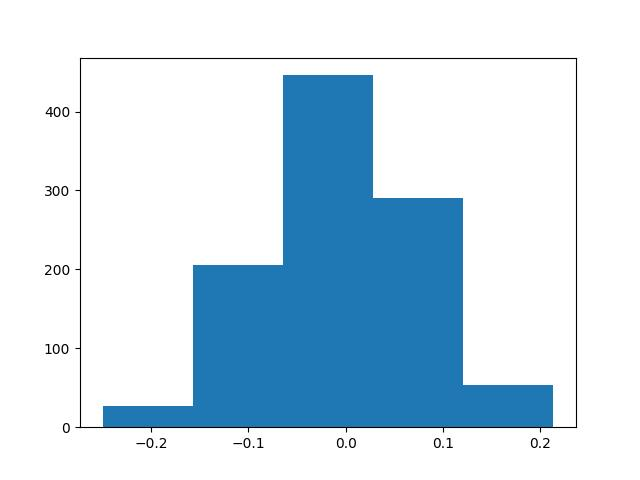
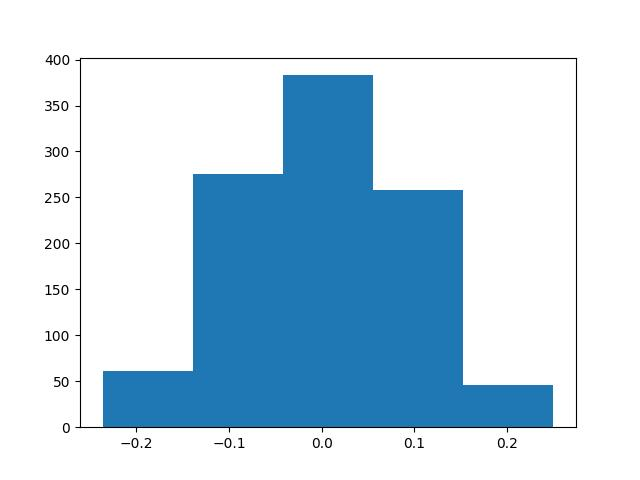
sampling changes

diff --git a/app.py b/app.py
@@ -104,7 +104,7 @@ adapter = MotionAdapter.from_pretrained("wangfuyun/AnimateLCM")
 pipe = AnimateDiffPipeline.from_pretrained("emilianJR/epiCRealism", motion_adapter=adapter, image_encoder=image_encoder, torch_dtype=dtype)#, vae=vae)
 pipe.scheduler = LCMScheduler.from_config(pipe.scheduler.config, beta_schedule="linear")
 pipe.load_lora_weights("wangfuyun/AnimateLCM", weight_name="AnimateLCM_sd15_t2v_lora.safetensors", adapter_name="lcm-lora",)
-pipe.set_adapters(["lcm-lora"], [.8])
+pipe.set_adapters(["lcm-lora"], [1])
 pipe.fuse_lora()
 
 #pipe = AnimateDiffPipeline.from_pretrained('emilianJR/epiCRealism', torch_dtype=dtype, image_encoder=image_encoder)
@@ -116,7 +116,7 @@ pipe.fuse_lora()
 
 
 pipe.load_ip_adapter("h94/IP-Adapter", subfolder="models", weight_name="ip-adapter_sd15.bin", map_location='cpu')
-pipe.set_ip_adapter_scale(1.)
+pipe.set_ip_adapter_scale(.8)
 pipe.unet.fuse_qkv_projections()
 pipe = compile(pipe, config=config)
 pipe.to(device=DEVICE)
@@ -124,7 +124,7 @@ pipe.to(device=DEVICE)
 im_embs = torch.zeros(1, 1, 1, 1024, device=DEVICE, dtype=dtype)
 output = pipe(prompt='a person', guidance_scale=0, added_cond_kwargs={}, ip_adapter_image_embeds=[im_embs], num_inference_steps=STEPS)
 leave_im_emb, _ = pipe.encode_image(
-                output.frames[0], DEVICE, 1, output_hidden_state
+                output.frames[0][len(output.frames[0])//2], DEVICE, 1, output_hidden_state
 )
 assert len(output.frames[0]) == 16
 leave_im_emb.to('cpu')
@@ -132,19 +132,19 @@ leave_im_emb.to('cpu')
 # Function 
 # TODO put back
 # @spaces.GPU()
-def generate(prompt, im_embs=None, base='basem'):
+def generate(prompt, in_im_embs=None, base='basem'):
 
-    if im_embs == None:
-        im_embs = torch.zeros(1, 1, 1, 1024, device=DEVICE, dtype=dtype)
-        #im_embs = im_embs / torch.norm(im_embs)
+    if in_im_embs == None:
+        in_im_embs = torch.zeros(1, 1, 1, 1024, device=DEVICE, dtype=dtype)
+        #in_im_embs = in_im_embs / torch.norm(in_im_embs)
     else:
-        im_embs = im_embs.unsqueeze(1).unsqueeze(1).to('cuda')
-        #im_embs = torch.cat((torch.zeros(1, 1024, device=DEVICE, dtype=dtype), im_embs), 0)
+        in_im_embs = in_im_embs.unsqueeze(1).unsqueeze(1).to('cuda')
+        #im_embs = torch.cat((torch.zeros(1, 1024, device=DEVICE, dtype=dtype), in_im_embs), 0)
 
-    output = pipe(prompt=prompt, guidance_scale=0, added_cond_kwargs={}, ip_adapter_image_embeds=[im_embs], num_inference_steps=STEPS)
+    output = pipe(prompt=prompt, guidance_scale=0, added_cond_kwargs={}, ip_adapter_image_embeds=[in_im_embs], num_inference_steps=STEPS)
 
     im_emb, _ = pipe.encode_image(
-                output.frames[0], DEVICE, 1, output_hidden_state
+                output.frames[0][len(output.frames[0])//2], DEVICE, 1, output_hidden_state
             )
 
     nsfw = maybe_nsfw(output.frames[0][len(output.frames[0])//2])
@@ -155,10 +155,10 @@ def generate(prompt, im_embs=None, base='basem'):
     if nsfw:
         gr.Warning("NSFW content detected.")
         # TODO could return an automatic dislike of auto dislike on the backend for neither as well; just would need refactoring.
-        return None, [imb.to('cpu').unsqueeze(0) for imb in im_emb]
+        return None, im_emb
     
     write_video(path, output.frames[0])
-    return path, [imb.to('cpu').unsqueeze(0) for imb in im_emb]
+    return path, im_emb.to('cpu')
 
 
 #######################
@@ -204,10 +204,10 @@ def next_image(embs, ys, calibrate_prompts):
             
             #if len(pos_indices) - len(neg_indices) > 48 and len(pos_indices) > 80:
             #    pos_indices = pos_indices[32:]
-            if len(neg_indices) - len(pos_indices) > 48 and len(pos_indices) > 80:
-                pos_indices = pos_indices[16:]
-            if len(neg_indices) - len(pos_indices) > 48 and len(neg_indices) > 80:
-                neg_indices = neg_indices[32:]
+            if len(neg_indices) - len(pos_indices) > 48/16 and len(pos_indices) > 120/16:
+                pos_indices = pos_indices[1:]
+            if len(neg_indices) - len(pos_indices) > 48/16 and len(neg_indices) > 200/16:
+                neg_indices = neg_indices[32/16:]
             
             
             print(len(pos_indices), len(neg_indices))
@@ -220,8 +220,8 @@ def next_image(embs, ys, calibrate_prompts):
             
             # handle case where every instance of calibration prompts is 'Neither' or 'Like' or 'Dislike'
             if len(list(set(ys))) <= 1:
-                embs.append(.01*torch.randn(1, 1024))
-                embs.append(.01*torch.randn(1, 1024))
+                embs.append(.01*torch.randn(1024))
+                embs.append(.01*torch.randn(1024))
                 ys.append(0)
                 ys.append(1)
 
@@ -245,11 +245,11 @@ def next_image(embs, ys, calibrate_prompts):
             if len(ys) > len(embs):
                 print('ys are longer than embs; popping latest rating')
                 ys.pop(-1)
-            
-            feature_embs = np.array(torch.cat([embs[i].to('cpu') for i in indices] + [leave_im_emb.to('cpu')]).to('cpu'))
+            print(embs, 'EMBS')
+            feature_embs = np.array(torch.stack([embs[i].to('cpu') for i in indices] + [leave_im_emb[0].to('cpu')]).to('cpu'))
             scaler = preprocessing.StandardScaler().fit(feature_embs)
             feature_embs = scaler.transform(feature_embs)
-            chosen_y = np.array([ys[i] for i in indices] + [0]*16)
+            chosen_y = np.array([ys[i] for i in indices] + [0])
             
             print('Gathering coefficients')
             lin_class = SVC(max_iter=50000, kernel='linear', class_weight='balanced').fit(feature_embs, chosen_y)
@@ -271,9 +271,9 @@ def next_image(embs, ys, calibrate_prompts):
             image, im_emb = generate(prompt, im_emb)
             embs += im_emb
             
-            if len(embs) > 500:
-                embs = embs[16:]
-                ys = ys[16:]
+            if len(embs) > 700:
+                embs = embs[1:]
+                ys = ys[1:]
             
             return image, embs, ys, calibrate_prompts
 
@@ -303,7 +303,7 @@ def choose(img, choice, embs, ys, calibrate_prompts):
     if choice == 'Like (L)':
         choice = 1
     elif choice == 'Neither (Space)':
-        embs = embs[:-16]
+        embs = embs[:-1]
         img, embs, ys, calibrate_prompts = next_image(embs, ys, calibrate_prompts)
         return img, embs, ys, calibrate_prompts
     else:
@@ -315,7 +315,7 @@ def choose(img, choice, embs, ys, calibrate_prompts):
         print('NSFW -- choice is disliked')
         choice = 0
     
-    ys += [choice]*16
+    ys += [choice]*1
     img, embs, ys, calibrate_prompts = next_image(embs, ys, calibrate_prompts)
     return img, embs, ys, calibrate_prompts
 
